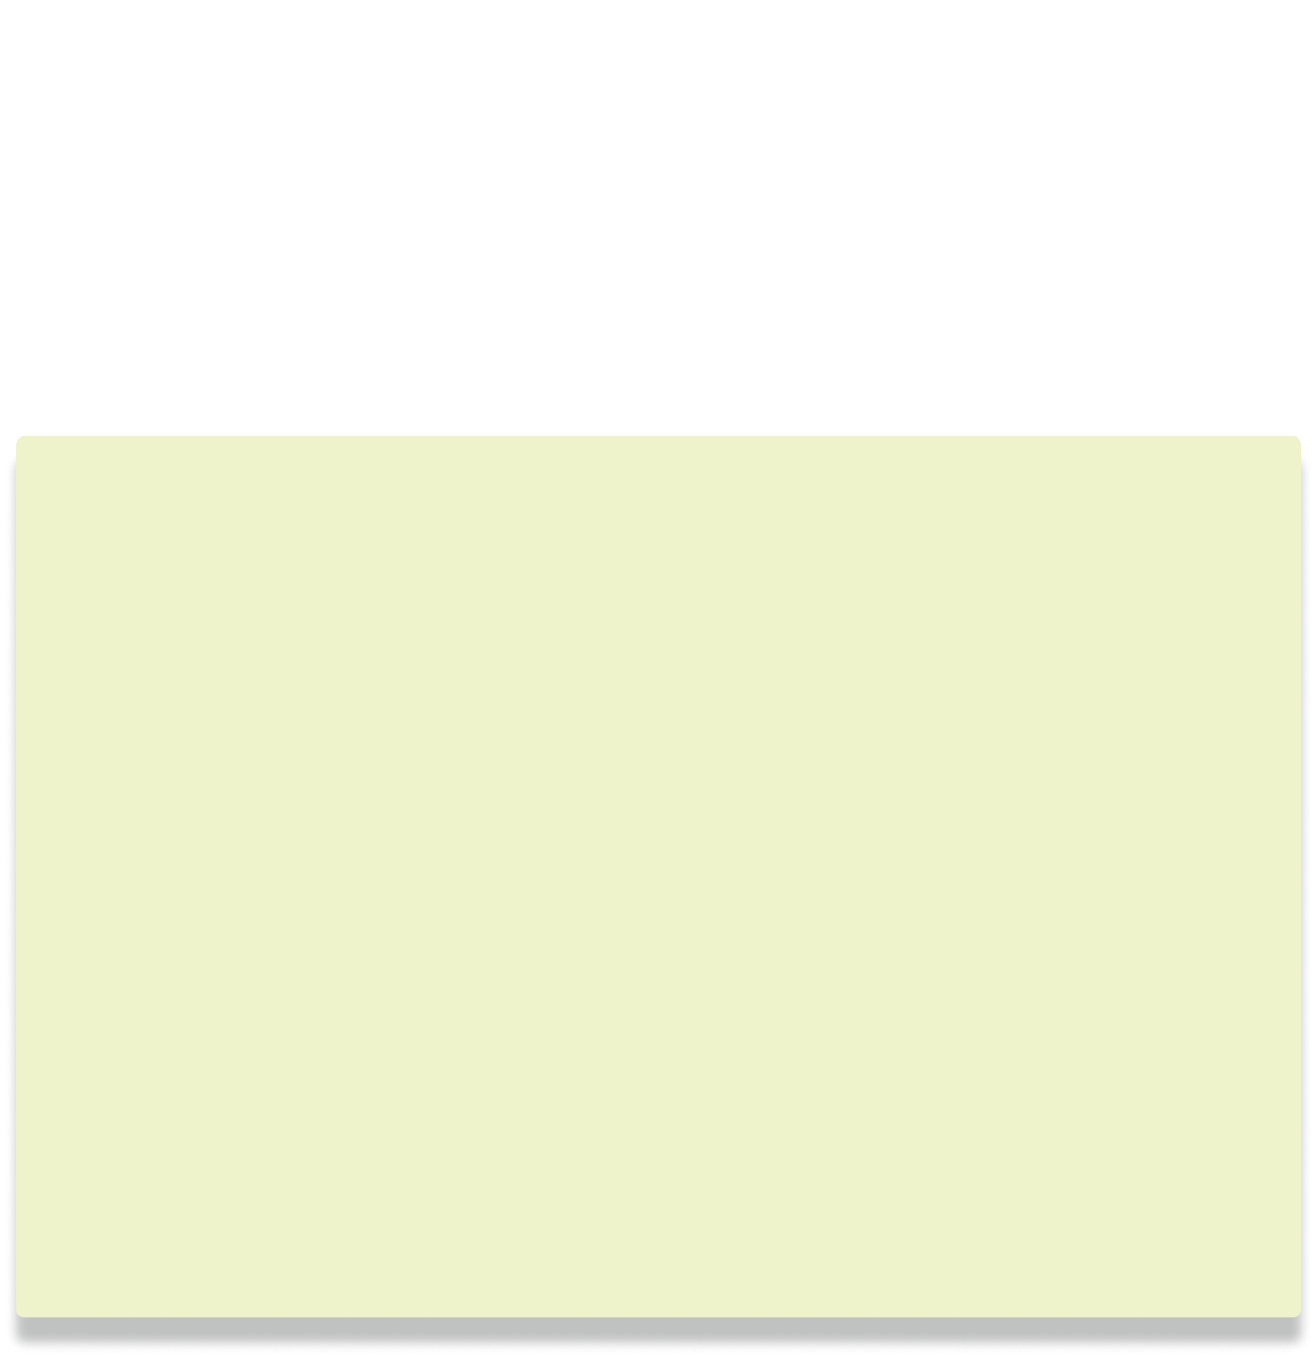
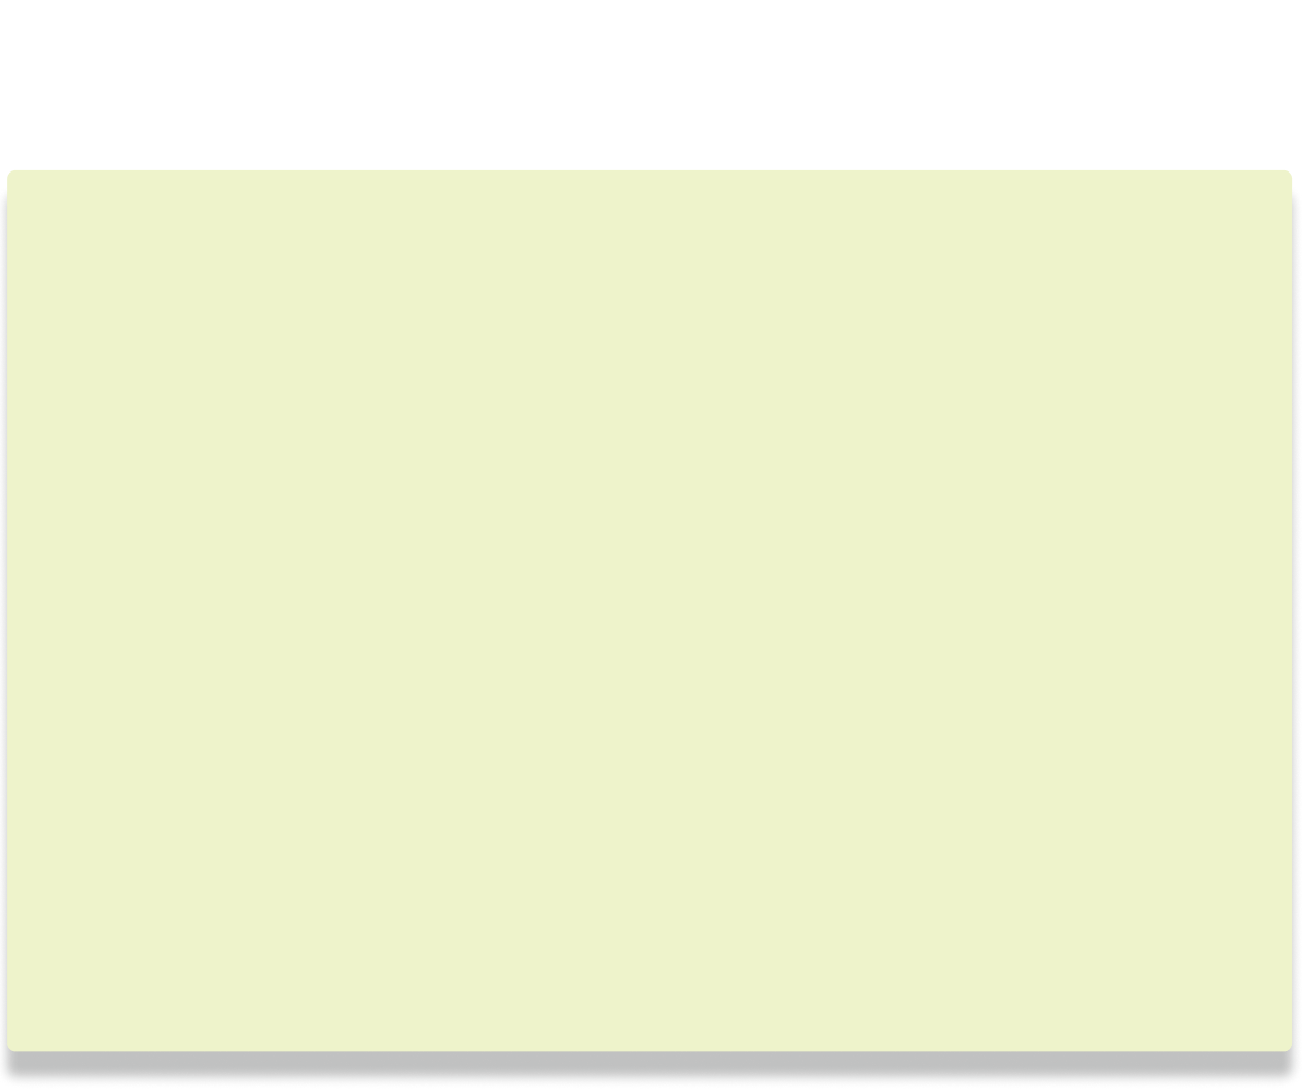
Fixed home screen UI for all pro max devices using conditional rendering. But bottom half of touchable opacity not clickable.

Changed region(s): [[0.0, 0.156, 1.0, 0.9982]]

diff --git a/send-letters/client/screens/home/HomeScreen.js b/send-letters/client/screens/home/HomeScreen.js
@@ -20,14 +20,6 @@ import { COLORS } from '../../styles/colors';
 // The react Button component renders the native button on each platform it uses. Because of this, 
 // it does not respond to the style prop. It has its own set of props.
 
-// calculate dimensions for the mailbox image
-const dimensions = Dimensions.get('window');
-const windowWidth = dimensions.width;
-const imageHeight = dimensions.height * (.7);
-const imageWidth = Math.round(imageHeight * .626);
-
-// widths for the slider carousel
-const SLIDER_WIDTH = windowWidth;
 
 function HomeScreen({ navigation, route}) {
   const [userInfo, setUserInfo] = useContext(AuthContext);
@@ -85,7 +77,7 @@ function HomeScreen({ navigation, route}) {
         <View key={index}
               style={{shadowOpacity: .1, 
                       shadowColor: "#000000",
-                      marginBottom: -hp('27%')}}>
+                      marginBottom: -hp('20%')}}>
           <LetterForCarousel
             letterStatus={item.status}
             letterFont={item.font}
@@ -148,20 +140,18 @@ function HomeScreen({ navigation, route}) {
 
         <View style={{flex: 0.8}}></View>
 
-        <View style={{flex: 8, justifyContent: 'center', alignItems: 'center', width: windowWidth}} >
-          <ImageBackground
-            source={mail.length < 2 ? require('../../assets/mailbox2.png') : {uri: 'https://commons.wikimedia.org/wiki/File:Empty.png'}}
-            style={{
-              flex: 1,
-              alignContent: 'center',
-              alignItems: 'center',
-              height: imageHeight,
-              width: imageWidth
-            }}
-          >
+        <View style={{flex: 8, justifyContent: 'center', alignItems: 'center', width: wp('100%'), marginBottom: 0}} >
+         
             { mail.length === 0 ? (
+               <ImageBackground
+               source={require('../../assets/mailbox1.png')}
+               imageStyle={{position: 'absolute', bottom: '-50%', left: 0, resizeMode: 'contain' }}
+               style={{
+                 flex: 1
+               }}
+             >
                 <View>
-                  <View style={{flex: 2, padding: '20%', justifyContent: 'center', alignItems: 'center'}}>
+                  <View style={{flex: 2, padding: '25%', justifyContent: 'center', alignItems: 'center'}}>
                     <Text style={styles.emptyMailboxText}>
                       You don't have any letters in your mailbox.
                     </Text>
@@ -174,26 +164,15 @@ function HomeScreen({ navigation, route}) {
                     />
                   </View>
                 </View>
-              ) : mail.length === 1 ? (
-                <View style={{flex: 1, alignItems: 'center'}}>
-                  <LetterForCarousel
-                    letterStatus={mail[0].status}
-                    letterFont={mail[0].font}
-                    letterDate={mail[0].createdAt}
-                    sender={mail[0].senderInfo.name}
-                    senderAddress={0}
-                    recipient={userInfo.user.name}
-                    recipientAddress={0}
-                    onPress={() => {handleLetterOpen(mail[0].text, mail[0]._id, mail[0].status, mail[0].senderInfo._id, mail[0].senderInfo.username, mail[0].theme, mail[0].font)}}
-                  />
-                </View>
-              ): (
+                </ImageBackground>
+              ) : (
               <>
                 <View style={{flex: 0}}/>
-                <View style={{flex: 8, alignItems: 'center', alignSelf: 'center', width: windowWidth}}>
+                <View style={{flex: 8, alignItems: 'center', alignSelf: 'center', width: wp('100%'), marginBottom: '-10%'}}>
                   <FlatList
-                    contentContainerStyle={{marginTop: -hp('7%'), marginBottom: 0}}
+                    contentContainerStyle={{marginBottom: 0}}
                     data={mail}
+                    CellRendererComponent={this.renderItem}
                     renderItem={renderItem}
                     bounces={false}
                     ListFooterComponent={
@@ -201,7 +180,7 @@ function HomeScreen({ navigation, route}) {
                       resizeMode="contain" 
                       style={{
                         width: wp('100%'),
-                        marginTop: hp('15%'),
+                        marginTop: hp('10%'),
                         marginBottom: -hp('15%')
                       }} 
                       source={require('../../assets/mailbox2.png')}>
@@ -210,7 +189,7 @@ function HomeScreen({ navigation, route}) {
                 </View>
               </>) 
             }
-          </ImageBackground>
+          
         </View>
         <Snackbar
           style={styles.snackbar}
@@ -243,7 +222,7 @@ const styles = StyleSheet.create({
   },
   emptyMailboxText: {
     fontFamily: 'JosefinSansBold',
-    width: 150,
+    width: wp('50%'),
     fontStyle: "normal",
     fontWeight: "700",
     fontSize: 20,
@@ -252,7 +231,7 @@ const styles = StyleSheet.create({
     alignItems: "center",
     textAlign: "center",
     letterSpacing: 0.3,
-    color: COLORS.white
+    color: COLORS.black
   },
   snackBarText: {
     color: COLORS.white,
@@ -261,7 +240,7 @@ const styles = StyleSheet.create({
   snackbar: {
     opacity: 0.7,
     alignSelf: 'center',
-    width: windowWidth * .7,
+    width: wp('70%'),
     bottom: 10,
     fontSize: 30,
     borderRadius: 20,

diff --git a/send-letters/client/components/LetterForCarousel.js b/send-letters/client/components/LetterForCarousel.js
@@ -1,9 +1,13 @@
 import React from 'react';
-import { StyleSheet, Text, View, TouchableOpacity, Dimensions, ImageBackground, Image } from 'react-native';
+import { StyleSheet, Text, View, TouchableOpacity, Dimensions, ImageBackground, Image, TouchableWithoutFeedback } from 'react-native';
 import { widthPercentageToDP as wp, heightPercentageToDP as hp } from 'react-native-responsive-screen';
 
 // Citation: https://dev.to/gedalyakrycer/ohsnap-manage-global-styles-in-react-native-334
 // Shadow Citation: https://blog.logrocket.com/applying-box-shadows-in-react-native/
+
+// 390 is the logical width of the largest iPhones before pro max sizes
+// https://www.ios-resolution.com/
+const IS_BIG_PHONE = wp(100) > 390;
 
 const ITEM_WIDTH = wp('90%');
 const SMALL_FONT_SIZE = wp('4%');
@@ -26,16 +30,19 @@ const LetterForCarousel = props => {
   };
 
   return (
-    <View style={{margin: 0, flex: 1}}>
+    <View style={{margin: 0, flex: 1, zIndex: props.senderAddress}}>
       <ImageBackground 
         style={styles.imageBackground}
         source={letterStatus === "read" ? require('../assets/openedLetter.png') : require('../assets/letter.png')}>
           <TouchableOpacity 
           style={styles.item}
           onPress={props.onPress}>
-            <View style={{position: 'absolute', flex: 1,
-      left: 0, 
-      bottom: 0, width: ITEM_WIDTH, height: ITEM_WIDTH * .7}}>
+            <View style={{position: 'absolute', 
+                          flex: 1,
+                          left: 0, 
+                          bottom: 0, 
+                          width: ITEM_WIDTH, 
+                          height: ITEM_WIDTH * .7}}>
               <Image style={styles.dateStamp} source={require('../assets/date_stamp.png')}/>
               <View style={styles.stampTextView}>
                 <Text style={styles.monthYear}>{date[0].toUpperCase()}</Text>
@@ -56,13 +63,13 @@ const styles = StyleSheet.create({
       width: ITEM_WIDTH * .5,
       resizeMode: 'contain',
       position: 'absolute',
-      bottom: '37%',  // 37
+      bottom: IS_BIG_PHONE ? '40%' : '37%',  // 37
       left: '34%'
     },
     stampTextView: {
       position: 'absolute',
-      bottom: '63%',
-      left: '66%',
+      bottom: '64%',
+      left: '65.5%',
       flex: 1, 
       flexDirection: 'column', 
       alignItems: 'center'
@@ -88,7 +95,7 @@ const styles = StyleSheet.create({
     imageBackground: {
       alignSelf: 'center',
       width: ITEM_WIDTH * 1.03,
-      height: ITEM_WIDTH * 1.03,  // do not change, this is the aspect ratio of the letter png
+      height: ITEM_WIDTH * 0.89,  // do not change, this is the aspect ratio of the letter png
     },
     item : {
       flex: 1, 
